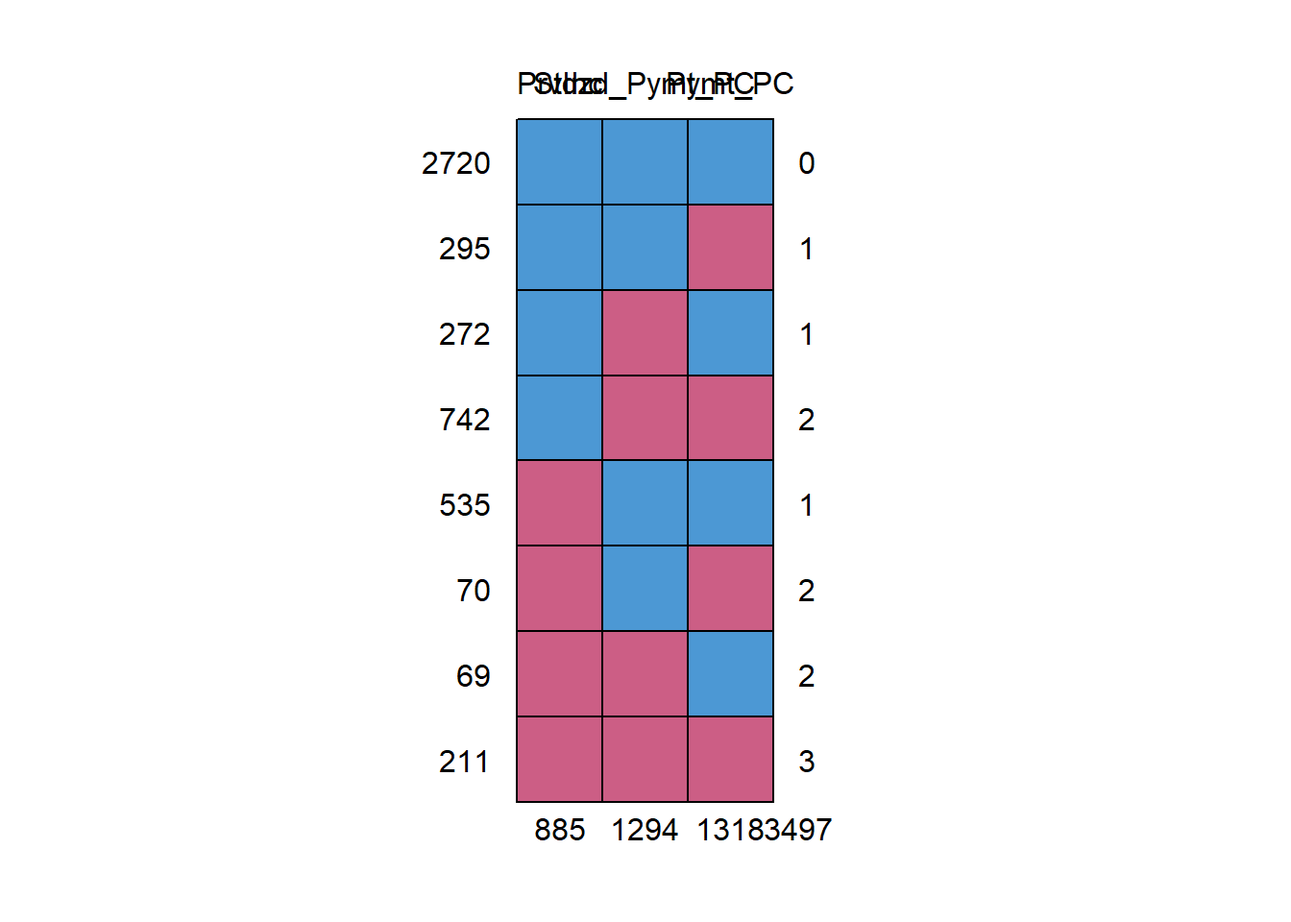
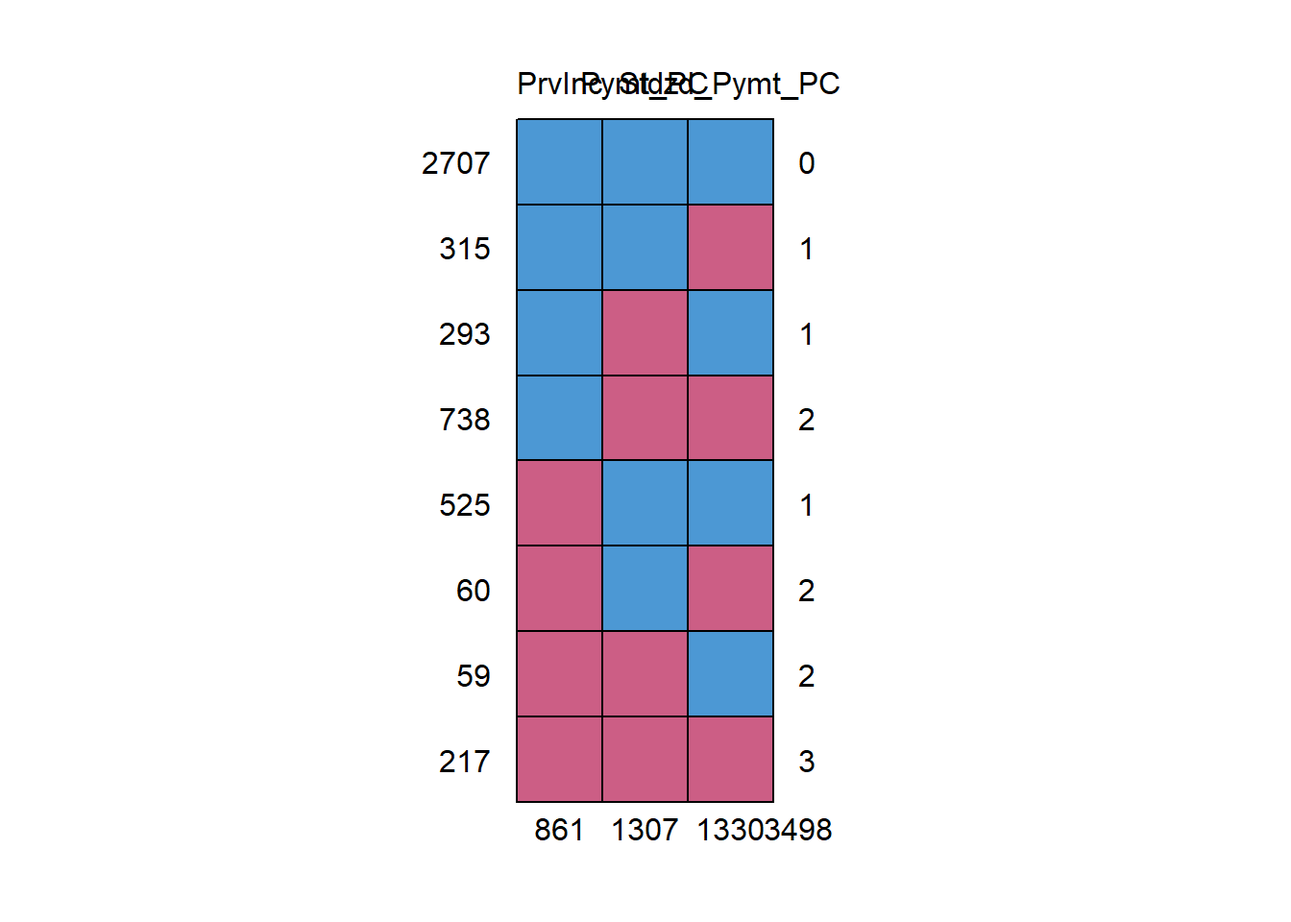
Final edits! :)

diff --git a/index.html b/index.html
@@ -7,7 +7,7 @@
 <meta name="viewport" content="width=device-width, initial-scale=1.0, user-scalable=yes">
 
 <meta name="author" content="Natalie Belford, Benjamin Brustad, Jasmine Hyler">
-<meta name="dcterms.date" content="2023-07-26">
+<meta name="dcterms.date" content="2023-08-09">
 
 <title>Missing Data and Imputation</title>
 <style>
@@ -119,7 +119,7 @@ div.csl-indent {
     <div>
     <div class="quarto-title-meta-heading">Published</div>
     <div class="quarto-title-meta-contents">
-      <p class="date">July 26, 2023</p>
+      <p class="date">August 9, 2023</p>
     </div>
   </div>
   
@@ -135,29 +135,23 @@ div.csl-indent {
 <p>Missing data is ubiquitous in any dataset. Although alone it is not a problem, missing data becomes a problem when its analysis shows bias or lacks power. While the occurrence of missing data is immense, its discussion in many peer-reviewed journal articles is not so. Even more infrequent are the discussions on how best to accurately institute observations in the missing dataset. Some researchers <span class="citation" data-cites="ljlmw14">(<a href="#ref-ljlmw14" role="doc-biblioref">Little et al. 2014</a>)</span> have observed that, there are areas of loss when it comes to missing data – bias, power, and recoverability.</p>
 <p>Missing data in experiments and analyses can lead to inaccurately distributed data and calculations, skewed visuals (such as histograms, line graphs, etc.), and allow for inaccurate conclusions to be rendered. Determining which method is best is another challenge entirely. The problem of missing data in research applications is vast. There is a significant need to best correct the missing data points in order to provide the most accurate and complete dataset from which to analyze the research and draw accurate conclusions. Researchers suggest using the most common form of missing data analysis, Multiple Imputation (MI), in addition to other novel suggested approaches.</p>
 <p>MI resolves the issue of “too small or too big” standard errors gathered from using traditional methods of addressing missing data. A large standard error occurs when statistical results are acquired with a lack of precision, whereas a small standard error occurs when statistical results are acquired with an overestimation of precision.</p>
-<p>As Madley-Dowd et al.<span class="citation" data-cites="mhth19">(<a href="#ref-mhth19" role="doc-biblioref">2019</a>)</span> have noted, providing sufficient auxiliary variables can alleviate power degradation from missing data. They determined that standard error increased when the fraction of missing information (FMI) increased, while FMI decreased when auxiliary variables increased.</p>
+<p>As Madley-Dowd et al. <span class="citation" data-cites="mhth19">(<a href="#ref-mhth19" role="doc-biblioref">2019</a>)</span> have noted, providing sufficient auxiliary variables can alleviate power degradation from missing data. They determined that standard error increased when the fraction of missing information (FMI) increased, while FMI decreased when auxiliary variables increased.</p>
 <p>There has also been discussion of using machine learning to address missing data <span class="citation" data-cites="emmsmt21">(<a href="#ref-emmsmt21" role="doc-biblioref">Emmanuel et al. 2021</a>)</span>. Using machine learning, additional imputation methods to alleviate missing data include K Nearest Neighbor (KNN) and Support Vector Machine(SVM). KNN measures distances for each missing value and pulls the replacement value from the smallest distances. KNN still performs well even with large amounts of missing data, and in iterative versions, it has been shown to converge faster than many other methods, yet with a high computation time. SVM is similar, but rather than weighting each distance as with KMM, it aims to create a hyperplane that has the largest distance to data points. It should be noted that the KNN method outperformed the experiment’s implementation of a random forest decision tree for small missingness ratios.</p>
 <p>Many researchers argue that single imputation methods should be used only in randomized trials <span class="citation" data-cites="awlb21">(<a href="#ref-awlb21" role="doc-biblioref">Austin et al. 2021</a>)</span>.</p>
 <section id="types-of-missing-data" class="level4">
 <h4 class="anchored" data-anchor-id="types-of-missing-data">Types of Missing Data</h4>
 <p>Throughout the topic research, a common theme has emerged. Missing data is categorized into either one of three types: Missing Completely at Random, Missing at Random, and or Missing Not at Random.</p>
 <p>Kang <span class="citation" data-cites="k13">(<a href="#ref-k13" role="doc-biblioref">2013</a>)</span> introduces us to the three types of missing data as initially proposed by Rubin <span class="citation" data-cites="r76">(<a href="#ref-r76" role="doc-biblioref">1976</a>)</span>. This research was expanded upon <span class="citation" data-cites="pmckppp17">(<a href="#ref-pmckppp17" role="doc-biblioref">Pedersen et al. 2017</a>)</span> to discuss the thorough estimation value of using MI in data analysis along with providing the three-step method. Pedersen et al. <span class="citation" data-cites="pmckppp17">(<a href="#ref-pmckppp17" role="doc-biblioref">2017</a>)</span> conclude the results of using MI are similar to using complete datasets thereby enhancing the credibility of the method’s robustness.</p>
-<p>Missing Completely at Random (MCAR) refers to the probability that missing data is either not related to a specific value that is supposed to be obtained or related to the set of obtained values. The data can also be missing due to equipment failure, samples lost in transit, or unsatisfactory samples <span class="citation" data-cites="k13">(<a href="#ref-k13" role="doc-biblioref">Kang 2013</a>)</span>. MCAR data are unbiased and therefore an advantage due to its estimated parameters being objective and undeterred because of missing data. As a result, MCAR is the best-case option for missing data in an experiment.</p>
+<p>Missing Completely at Random (MCAR) refers to the probability that missing data is not related to either a specific value that is supposed to be obtained or to the set of obtained values. The data can also be missing due to equipment failure, samples lost in transit, or unsatisfactory samples <span class="citation" data-cites="k13">(<a href="#ref-k13" role="doc-biblioref">Kang 2013</a>)</span>. MCAR data are unbiased and therefore an advantage due to its estimated parameters being objective and undeterred because of missing data. As a result, MCAR is the best-case option for missing data in an experiment.</p>
 <p>Missing at Random (MAR) refers to the probability that missing responses are dependent upon the set of observed responses, but not related to the specific values expected to be obtained given the history of the obtained variable prior to the experiment. This is the most realistic option for missing data. When Missing at Random (MAR) occurs, the missing data is knowable and missingness is predictable, therefore, estimates can be determined; bias can be “recovered” <span class="citation" data-cites="k13">(<a href="#ref-k13" role="doc-biblioref">Kang 2013</a>)</span>.</p>
-<p>Missing Not at Random (MNAR) refers to any case of missing data that cannot be classified as either Missing Completely at Random or Missing at Random. When Missing Not at Random (MNAR) occurs, no bias is observed, only power is affected resulting in standard error (SE) around the estimates being larger due to reduced sample size. MNAR is the least desirable scenario of missing data. The only way to accurately obtain an unbiased observation of the data is to model the data and use the model to incorporate it into a more complex model to estimate the values <span class="citation" data-cites="k13">(<a href="#ref-k13" role="doc-biblioref">Kang 2013</a>)</span>. When Missing Not at Random (MNAR) occurs, the subjects affect the variables. Subjects do not want to disclose accurate information for fear or shame, and therefore forego providing a data point altogether <span class="citation" data-cites="ljlmw14">(<a href="#ref-ljlmw14" role="doc-biblioref">Little et al. 2014</a>)</span>.</p>
+<p>Missing Not at Random (MNAR) refers to any case of missing data that cannot be classified as either Missing Completely at Random or Missing at Random. When Missing Not at Random (MNAR) occurs, no bias is observed, only power is affected resulting in standard error (SE) around the estimates being larger due to reduced sample size. MNAR is the least desirable scenario of missing data. The only way to accurately obtain an unbiased observation of the data is to model the data and use the model to incorporate it into a more complex model to estimate the values <span class="citation" data-cites="k13">(<a href="#ref-k13" role="doc-biblioref">Kang 2013</a>)</span>. When Missing Not at Random (MNAR) occurs, the subjects affect the variables. Subjects do not want to disclose income information for fear or shame, and therefore forego providing a data point altogether <span class="citation" data-cites="ljlmw14">(<a href="#ref-ljlmw14" role="doc-biblioref">Little et al. 2014</a>)</span>.</p>
 </section>
 <section id="types-of-missing-data-solutions" class="level4">
 <h4 class="anchored" data-anchor-id="types-of-missing-data-solutions">Types of Missing Data Solutions</h4>
-<p>Kang attempts to provide solutions to fill in the missing data points <span class="citation" data-cites="k13">(<a href="#ref-k13" role="doc-biblioref">Kang 2013</a>)</span>. His research suggests the best solution to missing data is to be proactive to prevent it. When prevention fails to eliminate missing data, Kang offers several data analysis solutions to make the data more robust. The most common solution is complete case analysis, also stated as listwise analysis, with the aim to eliminate the missing data records altogether and analyze only the remaining whole data records.</p>
-<p>Meanwhile, Lee et al. <span class="citation" data-cites="ltclbghc21">(<a href="#ref-ltclbghc21" role="doc-biblioref">2021</a>)</span> deem the method beneficial for some use cases, but not sufficient for most analyses. They introduce Treatment and Reporting of Missing data in Observational Studies (TARMOS), a novel framework alternative to MI. TARMOS’s aim is to provide transparency and limit redundancies in substituted data. The framework notes the importance of using auxiliary variables to gather information from incomplete observations.</p>
+<p>Kang attempts to provide solutions to fill in the missing data points<span class="citation" data-cites="k13">(<a href="#ref-k13" role="doc-biblioref">Kang 2013</a>)</span> . His research suggests the best solution to missing data is to be proactive to prevent it. When prevention fails to eliminate missing data, Kang offers several data analysis solutions to make the data more robust. The most common solution is complete case analysis, also stated as listwise analysis, with the aim to eliminate the missing data records altogether and analyze only the remaining whole data records.</p>
+<p>Meanwhile, Lee et al.<span class="citation" data-cites="ltclbghc21">(<a href="#ref-ltclbghc21" role="doc-biblioref">2021</a>)</span> deem the method beneficial for some use cases, but not sufficient for most analyses. They introduce Treatment and Reporting of Missing data in Observational Studies (TARMOS), a novel framework alternative to MI. TARMOS’s aim is to provide transparency and limit redundancies in substituted data. The framework notes the importance of using auxiliary variables to gather information from incomplete observations.</p>
 <p>In addition to using MI, Little, et al.&nbsp;recommended using full-information maximum likelihood to mitigate the issues of missing data <span class="citation" data-cites="ljlmw14">(<a href="#ref-ljlmw14" role="doc-biblioref">Little et al. 2014</a>)</span>. Using the three discussed planned missing data designs - multiform questionnaire protocol, two-method planned missing design, and wave-missing longitudinal design – the user is able to better understand how to overcome missing data issues.</p>
 <p>It is essential to have quality datasets to avoid corrupted machine learning models. A derivative of MI is the Multivariate Imputation by Chained Equation (MICE) algorithm which assumes data is Missing at Random (MAR). The process uses multiple imputation methods to provide better results by considering the uncertainty of missing data.</p>
-<div class="quarto-figure quarto-figure-center">
-<figure class="figure">
-<p><img src="MultiImputation.gif" class="img-fluid figure-img"></p>
-<figcaption class="figure-caption">Figure 1: Multiple Imputation Process using 5 sets</figcaption>
-</figure>
-</div>
 <p>Khan and Hoque <span class="citation" data-cites="kh20">(<a href="#ref-kh20" role="doc-biblioref">2020</a>)</span> provide an alternative to MICE. Known as SICE, the new method improves upon the already existing Multivariate Imputation by Chained Equation (MICE) algorithm (found as a package in R), split into two variations to impute both categorical and numerical data. The method improves missing data by creating a hybrid of single and multiple imputation techniques. Using the respective variant, SICE-Categorical and SICE-Numeric, of the Single Center Imputation from Multiple Chained Equation (SICE) algorithm, the missing data values are corrected using a thorough approach to closely find a more accurate value to use instead. The approach uses predicted values imputed by using the MI approach to compute a mean or mode for the imputed values(depending on the data type), and replacing the original imputed value with the respective central measure. An added feature of using SICE in R is that it often had the lowest computation time for its data sets.</p>
 <p>Two main techniques of imputation exist – traditional and modern <span class="citation" data-cites="oap18">(<a href="#ref-oap18" role="doc-biblioref">Osman, Abu-Mahfouz, and Page 2018</a>)</span>. The traditional technique - single imputation, deletion, and mean imputation may be obsolete. However, Hot or Cold deck imputation (replacing missing data using similar data sets), and Regression imputation (replacing missing data with points along a regression) - may prove useful with many datasets. Furthermore, single imputation may lead to biased results and underestimation of error or variability.</p>
 </section>
@@ -166,7 +160,13 @@ div.csl-indent {
 <h2 class="anchored" data-anchor-id="methods">Methods</h2>
 <p>The dataset used to conduct the below Missing Imputation methods was adapted from the most recent study conducted by the U.S. Department of Health &amp; Human Services which examined 21 specific chronic illnesses of Medicare beneficiaries <span class="citation" data-cites="CMMS">(<a href="#ref-CMMS" role="doc-biblioref">Medicare &amp; Medicaid Services 2018</a>)</span>.</p>
 <p>The Multiple Imputation (MI) approach is used to correct the issue of imputing multiple times the missing values from the predictive distribution of the missing values given observed data. “Next, the analysis model is fitted to each ‘complete’ data set and results combined using Rubin’s rules” <span class="citation" data-cites="k13">(<a href="#ref-k13" role="doc-biblioref">Kang 2013</a>)</span>. Bias can be reduced and efficiency increased by using in the imputation step the auxiliary variables (predictive of missing values but not in the substantive model). The MI method is good but is not appropriate for handling all missing data records.</p>
-<p>There is a three-step process for conducting a statistical analysis of MI. The stages are 1) Selecting independent variables that may help impute variables with missing data, 2) Noting the chosen statistical method, estimating in each of the imputed datasets the association of interest, and 3) Combining using Rubin’s rules the association measures from each imputed dataset <span class="citation" data-cites="r76">(<a href="#ref-r76" role="doc-biblioref">Rubin 1976</a>)</span>. To combine, we use the following equations for Standard Error(SE), Arithmetic Average(W) and the Variability of the estimates(B), where t is a particular dataset, m is the total amount of imputed datasets, <span class="math inline">\(\bar{\theta}\)</span> and <span class="math inline">\(\hat{\theta_t}\)</span> are the average parameter estimate and the parameter estimate for a particular dataset, respectively <span class="citation" data-cites="oap18">(<a href="#ref-oap18" role="doc-biblioref">Osman, Abu-Mahfouz, and Page 2018</a>)</span>.</p>
+<div class="quarto-figure quarto-figure-center">
+<figure class="figure">
+<p><img src="MultiImputation.gif" class="img-fluid figure-img"></p>
+<figcaption class="figure-caption">Figure 1: Multiple Imputation Process using 5 sets</figcaption>
+</figure>
+</div>
+<p>There is a three-step process for conducting a statistical analysis of MI. The stages are 1) Selecting independent variables that may help impute variables with missing data, 2) Noting the chosen statistical method, estimating in each of the imputed datasets the association of interest, and 3) Combining using Rubin’s rules the association measures from each imputed dataset <span class="citation" data-cites="r76">(<a href="#ref-r76" role="doc-biblioref">Rubin 1976</a>)</span>. To combine, we use the following equations for Standard Error(SE), Arithmetic Average(W) and the Variability of the estimates(B), where t is a particular dataset, m is the total amount of imputed datasets, <span class="math inline">\(\bar{\theta}\)</span> and <span class="math inline">\(\hat{\theta_t}\)</span> are the average parameter estimate and the parameter estimate for a particular dataset, respectively. <span class="citation" data-cites="oap18">(<a href="#ref-oap18" role="doc-biblioref">Osman, Abu-Mahfouz, and Page 2018</a>)</span></p>
 <p><span class="math display">\[
 W=\frac{\sum({SE_t}^2)}{m} \tag{1}
 \]</span> <span class="math display">\[
@@ -179,12 +179,12 @@ SE=\sqrt{W+B+\frac{B}{m}}  \tag3
 <p>One proposed method which we deem computationally feasible for this project is multiple imputation. The methodology includes performing single imputation with multiple data sets, analyzing and computing the error of each set, and combining the data into a single, final data set <span class="citation" data-cites="ljlmw14">(<a href="#ref-ljlmw14" role="doc-biblioref">Little et al. 2014</a> )</span>.</p>
 <p>Researchers tested their proposed SICE method using four datasets, a sample of 65,000 real health records from hospitals and diagnostic clinics in Bangladesh, and one public dataset each from UCI Machine Learning Repository, Department of Mathematics of ETH Zurich, and Kaggle. The data types assessed were binary, categorical, and numeric. Researchers tested SICE performance against that of 12 existing imputation methods. Binary and numeric data responded better to SICE than the opposing methods. When using SICE, F-measurement resulted in a 20% increase while error reduction resulted in an 11% increase; Both factors showed improvement using SICE compared to the existing imputation methods. There was no significant time difference when running SICE compared to MICE <span class="citation" data-cites="pmckppp17">(<a href="#ref-pmckppp17" role="doc-biblioref">Pedersen et al. 2017</a>)</span>.</p>
 <p>Using Multiple Imputation by Chained Equations (MICE), the multiple imputation is conducted by manipulating the imputed data and comparing it to the regression, repeating the process multiple times, (usually 5-20), to create a single data set. Most modern imputations will create 20-100 data sets. Then each of these data sets will be analyzed and compared, such that the MI estimate of any statistic is the average of the statistic across each imputed set. The variance of each statistic is based on the within-imputation variation and the between-imputation variation <span class="citation" data-cites="awlb21">(<a href="#ref-awlb21" role="doc-biblioref">Austin et al. 2021</a>)</span>. The variable that is to be analyzed must be included in the imputation model, even if there is no missing data, otherwise, it will often be biased towards null.</p>
-<p>For our analysis, we decided to use the R packages for predictive means matching, classification and regression trees, lasso linear regression, and Random Forest, defined below.</p>
+<p>For our analysis, we decided to use the R packages for predictive means matching, classification and regression trees, and lasso linear regression, defined below.</p>
 <section id="equations" class="level3">
 <h3 class="anchored" data-anchor-id="equations">Equations</h3>
 <section id="predictive-means-matching" class="level4">
 <h4 class="anchored" data-anchor-id="predictive-means-matching">Predictive Means Matching</h4>
-<p>Predictive means matching(PMM) is a hot deck method, which pools complete cases which are similar to the case we are trying to impute, and randomly chooses values from the pool of prospective donors to be imputed for the missing data.For each missing variable, <span class="math inline">\(x\)</span>, we impute using parameters <span class="math inline">\(\alpha\)</span> and covariates <span class="math inline">\(z\)</span>. We use <span class="math inline">\(h\)</span> as a subscript for data containing <span class="math inline">\(x\)</span> and <span class="math inline">\(j\)</span> for data without. PMM choses a random donor from <span class="math inline">\(x_h\)</span> such that the distance defined below is minimized.</p>
+<p>Predictive means matching(PMM) is a hot deck method, which pools complete cases which are similar to the case we are trying to impute, and randomly chooses values from the pool of prospective donors to be imputed for the missing data. For each missing variable, <span class="math inline">\(x\)</span>, we impute using parameters <span class="math inline">\(\alpha\)</span> and covariates <span class="math inline">\(z\)</span>. We use <span class="math inline">\(h\)</span> as a subscript for data containing <span class="math inline">\(x\)</span> and <span class="math inline">\(j\)</span> for data without. PMM choses a random donor from <span class="math inline">\(x_h\)</span> such that the distance defined below is minimized.</p>
 <p><span class="math display">\[
 \delta_{hj}=\alpha^{mis}z_j-\alpha^{obs}z_h \tag{4}
 \]</span></p>
@@ -208,7 +208,7 @@ SE=\sqrt{W+B+\frac{B}{m}}  \tag3
 </section>
 <section id="analysis-and-results" class="level2">
 <h2 class="anchored" data-anchor-id="analysis-and-results">Analysis and Results</h2>
-<p>Prior to implementing the MICE method, we ran a missing map to get a count of which rows and columns contain missing data and how many data points are missing. As the following table and figures will show most of the columns contain their complete data set. We do, however, have three columns – Provisional Income, Total Medicare Standardized Payment, and Total Medicare Payment. Provisional Income has 408 missing entries, and both payment columns have missing values in 918 rows each. In our data set we have 2244 missing data points total between these columns.</p>
+<p>Prior to implementing the MICE method, we ran a missing map to get a count of which rows and columns contain missing data and how many data points are missing. As the following table and figures will show most of the columns contain their complete data set. We do, however, have three columns – Provisional Income, Total Medicare Standardized Payment, and Total Medicare Payment - that are missing data. Provisional Income has 408 missing entries, and both payment columns have missing values in 918 rows each. In our data set we have 2244 missing data points total between these columns.</p>
 <div class="cell">
 <details>
 <summary>Code</summary>
@@ -256,7 +256,7 @@ SE=\sqrt{W+B+\frac{B}{m}}  \tag3
 </div>
 </div>
 <p>Figure 4: Histogram</p>
-<p>We can see that over 75% of the data has been recorded but between those columns we are missing roughly 25% of our data which we will utilize the MICE package to impute. Following the Missing Map, we ran the MICE package in R.</p>
+<p>We can see that over 75% of the data in these three columns have been recorded but we are missing the rest, roughly 25%, which we will utilize the MICE package to impute. Additionally, we ran the miss Forest package followed by a summary of both to gain a better quantitative view. Below are the code, results, and figures.</p>
 <p>Results:</p>
 <div class="cell">
 <details>
@@ -270,12 +270,11 @@ SE=\sqrt{W+B+\frac{B}{m}}  \tag3
 <span id="cb4-7"><a href="#cb4-7" aria-hidden="true" tabindex="-1"></a></span>
 <span id="cb4-8"><a href="#cb4-8" aria-hidden="true" tabindex="-1"></a></span>
 <span id="cb4-9"><a href="#cb4-9" aria-hidden="true" tabindex="-1"></a></span>
-<span id="cb4-10"><a href="#cb4-10" aria-hidden="true" tabindex="-1"></a><span class="co">#head(mice_imputed)</span></span>
-<span id="cb4-11"><a href="#cb4-11" aria-hidden="true" tabindex="-1"></a><span class="co">#Imputation using miss Forest </span></span>
-<span id="cb4-12"><a href="#cb4-12" aria-hidden="true" tabindex="-1"></a>Chronic_Conditions.mis <span class="ot">&lt;-</span> <span class="fu">prodNA</span>(Chronic_Conditions, <span class="at">noNA =</span> <span class="fl">0.1</span>)</span></code><button title="Copy to Clipboard" class="code-copy-button"><i class="bi"></i></button></pre></div>
+<span id="cb4-10"><a href="#cb4-10" aria-hidden="true" tabindex="-1"></a><span class="co">#Imputation using miss Forest </span></span>
+<span id="cb4-11"><a href="#cb4-11" aria-hidden="true" tabindex="-1"></a>Chronic_Conditions.mis <span class="ot">&lt;-</span> <span class="fu">prodNA</span>(Chronic_Conditions, <span class="at">noNA =</span> <span class="fl">0.1</span>)</span></code><button title="Copy to Clipboard" class="code-copy-button"><i class="bi"></i></button></pre></div>
 </details>
 </div>
-<p>After running the MICE package, we ran a MICE plot to gain a better visual of our missing data.</p>
+<p>After running the MICE package, we ran a density plot to gain a better visual of our imputed data and how it relates to our original data.</p>
 <div class="cell">
 <details>
 <summary>Code</summary>
@@ -303,16 +302,16 @@ SE=\sqrt{W+B+\frac{B}{m}}  \tag3
 <p><img src="index_files/figure-html/unnamed-chunk-6-1.png" class="img-fluid" width="672"></p>
 </div>
 <div class="cell-output cell-output-stdout">
-<pre><code>     PrvInc Stdzd_Pymt_PC Pymt_PC     
-2720      1             1       1    0
-295       1             1       0    1
-272       1             0       1    1
-742       1             0       0    2
-535       0             1       1    1
-70        0             1       0    2
-69        0             0       1    2
-211       0             0       0    3
-        885          1294    1318 3497</code></pre>
+<pre><code>     PrvInc Pymt_PC Stdzd_Pymt_PC     
+2707      1       1             1    0
+315       1       1             0    1
+293       1       0             1    1
+738       1       0             0    2
+525       0       1             1    1
+60        0       1             0    2
+59        0       0             1    2
+217       0       0             0    3
+        861    1307          1330 3498</code></pre>
 </div>
 </div>
 <p>Additionally, we ran the miss Forest package followed by a summary to gain a better quantitative view. Below are the code, results, and figure.</p>
@@ -336,12 +335,12 @@ SE=\sqrt{W+B+\frac{B}{m}}  \tag3
 <div class="cell-output cell-output-stdout">
 <pre><code>     PrvInc       Stdzd_Pymt_PC      Pymt_PC      
  Min.   :0.0000   Min.   :    0   Min.   :     0  
- 1st Qu.:0.0385   1st Qu.:18669   1st Qu.: 18389  
- Median :0.1105   Median :23278   Median : 22947  
- Mean   :0.1712   Mean   :24079   Mean   : 23973  
- 3rd Qu.:0.2720   3rd Qu.:28192   3rd Qu.: 28114  
- Max.   :0.7566   Max.   :89235   Max.   :100028  
- NA's   :885      NA's   :1294    NA's   :1318    </code></pre>
+ 1st Qu.:0.0391   1st Qu.:18594   1st Qu.: 18369  
+ Median :0.1103   Median :23154   Median : 22916  
+ Mean   :0.1716   Mean   :24052   Mean   : 23994  
+ 3rd Qu.:0.2750   3rd Qu.:28192   3rd Qu.: 28248  
+ Max.   :0.7588   Max.   :89235   Max.   :100028  
+ NA's   :861      NA's   :1330    NA's   :1307    </code></pre>
 </div>
 </div>
 <div class="cell">
@@ -358,7 +357,7 @@ SE=\sqrt{W+B+\frac{B}{m}}  \tag3
 </section>
 <section id="conclusion" class="level2">
 <h2 class="anchored" data-anchor-id="conclusion">Conclusion</h2>
-<p>Missing data is a common finding when analyzing datasets, yet can be easily addressed. Unlike other data analysis cleaning methods which create biased results by removing data or imputing an average, Multiple imputation is the act of completing data sets where there are missing data points. MI’s purpose is to utilize multiple analyses for what the missing data value could be, then combine analyses results in order to have a less biased and more accurate outcome. Multivariate Imputation by Chained Equations, or MICE, in R is a highly effective way to impute missing data into data sets. One key benefit of using MI, or more specifically MICE, is to reduce uncertainty by using multiple possible outcomes for each data point. Within the MICE package are PMM, Lasso and Cart methods if imputation. Each method will produce results based off of a different type of analysis which will include both a combination of the different analysis types and a combination of each imputation. From our data set we can see with our final Density Plot that not only does one or some of the imputed data results follow the trendline closely, but all do. We can determine that the imputed data, when this close to the trendline, will be fairly accurate.</p>
+<p>Missing data is a common finding when analyzing datasets, yet can be easily addressed. Unlike other data analysis cleaning methods which create biased results by removing data or imputing an average, Multiple Imputation(MI) is the act of completing data sets where there are missing data points. MI’s purpose is to utilize multiple analyses for what the missing data value could be, then combine analyses results in order to have a less biased and more accurate outcome. Multivariate Imputation by Chained Equations, or MICE, in R is a highly effective way to impute missing data into data sets. One key benefit of using MI, or more specifically MICE, is to reduce uncertainty by using multiple possible outcomes for each data point. Within the MICE package are PMM, Lasso and Cart methods of imputation. Each method will produce results based off of a different type of analysis which will include both a combination of the different analysis types and a combination of each imputation. From our data set we can see with our final Density Plot that not only does one or some of the imputed data results follow the trendline closely, but all do. We can determine that the imputed data, when this close to the trendline, will be fairly accurate.</p>
 <section id="references" class="level3 unnumbered">
 
 
